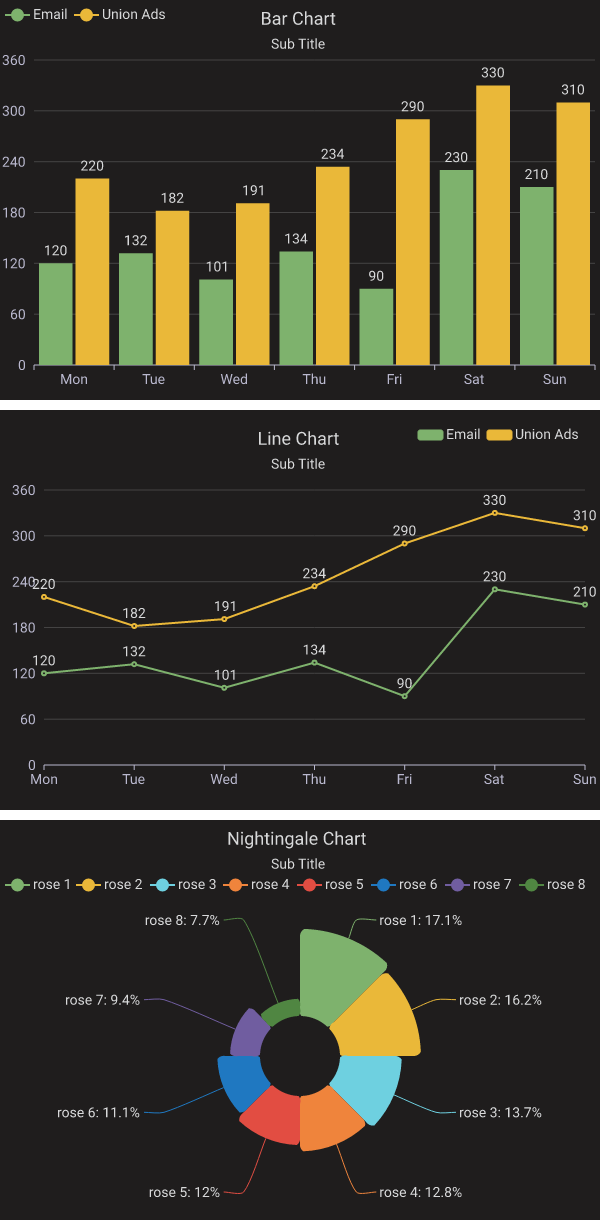
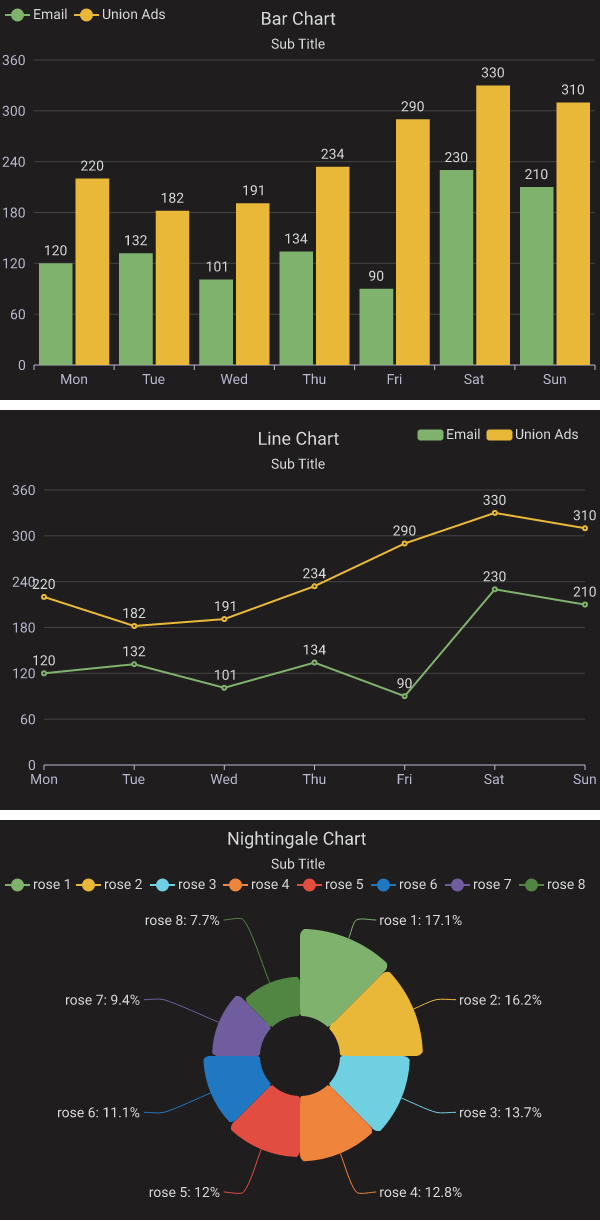
fix: fix radius of pie chart

Changed region(s): [[0.33, 0.7787, 0.66, 0.9656], [0.66, 0.8098, 0.72, 0.9033]]

diff --git a/src/charts/pie_chart.rs b/src/charts/pie_chart.rs
@@ -89,6 +89,7 @@ impl PieChart {
         self.inner_radius = 40.0;
         self.legend_show = Some(false);
     }
+    /// Creates a pie chart from json.
     pub fn from_json(data: &str) -> canvas::Result<PieChart> {
         let mut p = PieChart {
             ..Default::default()
@@ -103,6 +104,7 @@ impl PieChart {
         }
         Ok(p)
     }
+    /// Creates a pie chart with custom theme.
     pub fn new_with_theme(series_list: Vec<Series>, theme: &str) -> PieChart {
         let mut p = PieChart {
             series_list,
@@ -112,10 +114,11 @@ impl PieChart {
         p.fill_theme(get_theme(theme));
         p
     }
+    /// Creates a pie chart with default theme.
     pub fn new(series_list: Vec<Series>) -> PieChart {
         PieChart::new_with_theme(series_list, &get_default_theme())
     }
-
+    /// Converts pie chart to svg.
     pub fn svg(&self) -> canvas::Result<String> {
         let mut c = Canvas::new_width_xy(self.width, self.height, self.x, self.y);
 
@@ -172,7 +175,7 @@ impl PieChart {
 
         for (index, series) in self.series_list.iter().enumerate() {
             let value = values[index];
-            let cr = value / max * r;
+            let cr = value / max * (r - self.inner_radius) + self.inner_radius;
             let color = *self
                 .series_colors
                 .get(series.index.unwrap_or(index))
@@ -271,6 +274,28 @@ mod tests {
         pie_chart.sub_title_text = "Fake Data".to_string();
         assert_eq!(
             include_str!("../../asset/pie_chart/basic.svg"),
+            pie_chart.svg().unwrap()
+        );
+    }
+
+    #[test]
+    fn small_pie_basic() {
+        let mut pie_chart = PieChart::new(vec![
+            ("rose 1", vec![40.0]).into(),
+            ("rose 2", vec![38.0]).into(),
+            ("rose 3", vec![32.0]).into(),
+            ("rose 4", vec![30.0]).into(),
+            ("rose 5", vec![28.0]).into(),
+            ("rose 6", vec![26.0]).into(),
+            ("rose 7", vec![22.0]).into(),
+            ("rose 8", vec![18.0]).into(),
+        ]);
+        pie_chart.width = 400.0;
+        pie_chart.height = 300.0;
+        pie_chart.title_text = "Nightingale Chart".to_string();
+        pie_chart.sub_title_text = "Fake Data".to_string();
+        assert_eq!(
+            include_str!("../../asset/pie_chart/small_basic.svg"),
             pie_chart.svg().unwrap()
         );
     }

diff --git a/src/charts/scatter_chart.rs b/src/charts/scatter_chart.rs
@@ -86,6 +86,7 @@ pub struct ScatterChart {
 }
 
 impl ScatterChart {
+    /// Creates a scatter chart from json.
     pub fn from_json(data: &str) -> canvas::Result<ScatterChart> {
         let mut s = ScatterChart {
             ..Default::default()
@@ -102,7 +103,7 @@ impl ScatterChart {
         }
         Ok(s)
     }
-    /// New a scatter chart with  theme.
+    /// Creates a scatter chart with  theme.
     pub fn new_with_theme(series_list: Vec<Series>, theme: &str) -> ScatterChart {
         let mut s = ScatterChart {
             series_list,
@@ -114,7 +115,7 @@ impl ScatterChart {
 
         s
     }
-    pub fn fill_default(&mut self) {
+    fn fill_default(&mut self) {
         if self.y_axis_configs[0].axis_stroke_color.is_zero() {
             self.y_axis_configs[0].axis_stroke_color = self.x_axis_stroke_color;
         }
@@ -123,7 +124,7 @@ impl ScatterChart {
         }
         self.x_boundary_gap = Some(false);
     }
-    /// New a scatter chart with default theme.
+    /// Creates a scatter chart with default theme.
     pub fn new(series_list: Vec<Series>) -> ScatterChart {
         ScatterChart::new_with_theme(series_list, &get_default_theme())
     }

diff --git a/src/charts/table_chart.rs b/src/charts/table_chart.rs
@@ -218,11 +218,13 @@ impl TableChart {
         }
         Ok(data)
     }
+    /// Creates a table chart from json.
     pub fn from_json(data: &str) -> canvas::Result<TableChart> {
         let mut t = TableChart::new_with_theme(vec![], "");
         t.fill_option(data)?;
         Ok(t)
     }
+    /// Creates a table chart with custom theme.
     pub fn new_with_theme(data: Vec<Vec<String>>, theme: &str) -> TableChart {
         let mut table = TableChart {
             data,
@@ -262,6 +264,7 @@ impl TableChart {
         self.body_background_colors = t.table_body_colors;
         self.border_color = t.table_border_color;
     }
+    /// Creates a table chart with default theme.
     pub fn new(data: Vec<Vec<String>>) -> TableChart {
         TableChart::new_with_theme(data, &get_default_theme())
     }
@@ -323,6 +326,7 @@ impl TableChart {
         }
         title_height
     }
+    /// Converts bar chart to svg.
     pub fn svg(&mut self) -> canvas::Result<String> {
         if self.data.is_empty() {
             return Err(canvas::Error::Params {

diff --git a/src/charts/horizontal_bar_chart.rs b/src/charts/horizontal_bar_chart.rs
@@ -81,6 +81,7 @@ pub struct HorizontalBarChart {
 }
 
 impl HorizontalBarChart {
+    /// Creates a horizontal bar from json.
     pub fn from_json(data: &str) -> canvas::Result<HorizontalBarChart> {
         let mut h = HorizontalBarChart {
             ..Default::default()
@@ -88,6 +89,7 @@ impl HorizontalBarChart {
         h.fill_option(data)?;
         Ok(h)
     }
+    /// Creates a horizontal bar with custom theme.
     pub fn new_with_theme(
         series_list: Vec<Series>,
         x_axis_data: Vec<String>,
@@ -102,9 +104,11 @@ impl HorizontalBarChart {
         h.fill_theme(theme);
         h
     }
+    /// Creates a horizontal bar with default theme.
     pub fn new(series_list: Vec<Series>, x_axis_data: Vec<String>) -> HorizontalBarChart {
         HorizontalBarChart::new_with_theme(series_list, x_axis_data, &get_default_theme())
     }
+    /// Converts horizontal bar chart to svg.
     pub fn svg(&self) -> canvas::Result<String> {
         let mut c = Canvas::new_width_xy(self.width, self.height, self.x, self.y);
 

diff --git a/src/charts/candlestick_chart.rs b/src/charts/candlestick_chart.rs
@@ -102,6 +102,7 @@ impl CandlestickChart {
             self.candlestick_down_border_color = (0, 143, 40).into();
         }
     }
+    /// Creates a candlestick chart from json.
     pub fn from_json(data: &str) -> canvas::Result<CandlestickChart> {
         let mut c = CandlestickChart {
             ..Default::default()
@@ -122,7 +123,7 @@ impl CandlestickChart {
         c.fill_default();
         Ok(c)
     }
-    /// New a candlestick chart with custom theme
+    /// Creates a candlestick chart with custom theme.
     pub fn new_with_theme(
         mut series_list: Vec<Series>,
         x_axis_data: Vec<String>,
@@ -146,7 +147,7 @@ impl CandlestickChart {
         c.fill_default();
         c
     }
-    /// New a candlestick chart with default theme.
+    /// Creates a candlestick chart with default theme.
     pub fn new(series_list: Vec<Series>, x_axis_data: Vec<String>) -> CandlestickChart {
         CandlestickChart::new_with_theme(series_list, x_axis_data, &get_default_theme())
     }

diff --git a/src/charts/radar_chart.rs b/src/charts/radar_chart.rs
@@ -115,6 +115,7 @@ pub struct RadarChart {
 }
 
 impl RadarChart {
+    /// Creates a radar chart from json.
     pub fn from_json(data: &str) -> canvas::Result<RadarChart> {
         let mut r = RadarChart {
             ..Default::default()
@@ -125,6 +126,7 @@ impl RadarChart {
         }
         Ok(r)
     }
+    /// Creates a radar chart with custom theme.
     pub fn new_with_theme(
         series_list: Vec<Series>,
         indicators: Vec<RadarIndicator>,
@@ -139,9 +141,11 @@ impl RadarChart {
         r.fill_theme(theme);
         r
     }
+    /// Creates a radar chart with default theme.
     pub fn new(series_list: Vec<Series>, indicators: Vec<RadarIndicator>) -> RadarChart {
         RadarChart::new_with_theme(series_list, indicators, &get_default_theme())
     }
+    /// Converts bar chart to svg.
     pub fn svg(&self) -> canvas::Result<String> {
         if self.indicators.len() < 3 {
             return Err(canvas::Error::Params {

diff --git a/src/charts/line_chart.rs b/src/charts/line_chart.rs
@@ -81,6 +81,7 @@ pub struct LineChart {
 }
 
 impl LineChart {
+    /// Creates a line chart from json.
     pub fn from_json(data: &str) -> canvas::Result<LineChart> {
         let mut l = LineChart {
             ..Default::default()
@@ -88,6 +89,7 @@ impl LineChart {
         l.fill_option(data)?;
         Ok(l)
     }
+    /// Creates a line chart with custom theme.
     pub fn new_with_theme(
         series_list: Vec<Series>,
         x_axis_data: Vec<String>,
@@ -102,10 +104,11 @@ impl LineChart {
         l.fill_theme(theme);
         l
     }
+    /// Creates a line chart with default theme.
     pub fn new(series_list: Vec<Series>, x_axis_data: Vec<String>) -> LineChart {
         LineChart::new_with_theme(series_list, x_axis_data, &get_default_theme())
     }
-
+    /// Converts line chart to svg.
     pub fn svg(&self) -> canvas::Result<String> {
         let mut c = Canvas::new_width_xy(self.width, self.height, self.x, self.y);
 

diff --git a/src/charts/multi_chart.rs b/src/charts/multi_chart.rs
@@ -27,7 +27,7 @@ struct ChildChartResult {
 }
 
 impl MultiChart {
-    /// New a multi chart from json.
+    /// Creates a multi chart from json.
     pub fn from_json(data: &str) -> canvas::Result<MultiChart> {
         let value: serde_json::Value = serde_json::from_str(data)?;
         let mut theme = "".to_string();
@@ -106,18 +106,18 @@ impl MultiChart {
         }
         Ok(multi_chart)
     }
-    /// New a multi chart.
+    /// Creates a multi chart.
     pub fn new() -> MultiChart {
         MultiChart {
             charts: vec![],
             gap: 10.0,
         }
     }
-    /// Add a child chart.
+    /// Adds a child chart to multi chart.
     pub fn add(&mut self, c: ChildChart) {
         self.charts.push(c);
     }
-    /// Convert the chart to svg.
+    /// Converts the chart to svg.
     pub fn svg(&mut self) -> CanvasResult<String> {
         let mut arr = vec![];
         let mut y = 0.0;

diff --git a/src/charts/bar_chart.rs b/src/charts/bar_chart.rs
@@ -82,6 +82,7 @@ pub struct BarChart {
 }
 
 impl BarChart {
+    /// Creates a bar chart from json.
     pub fn from_json(data: &str) -> canvas::Result<BarChart> {
         let mut b = BarChart {
             ..Default::default()
@@ -89,6 +90,7 @@ impl BarChart {
         b.fill_option(data)?;
         Ok(b)
     }
+    /// Creates a bar chart with custom theme.
     pub fn new_with_theme(
         mut series_list: Vec<Series>,
         x_axis_data: Vec<String>,
@@ -111,7 +113,7 @@ impl BarChart {
         b.fill_theme(theme);
         b
     }
-    /// New a bar chart with default theme.
+    /// Creates a bar chart with default theme.
     pub fn new(series_list: Vec<Series>, x_axis_data: Vec<String>) -> BarChart {
         BarChart::new_with_theme(series_list, x_axis_data, &get_default_theme())
     }
